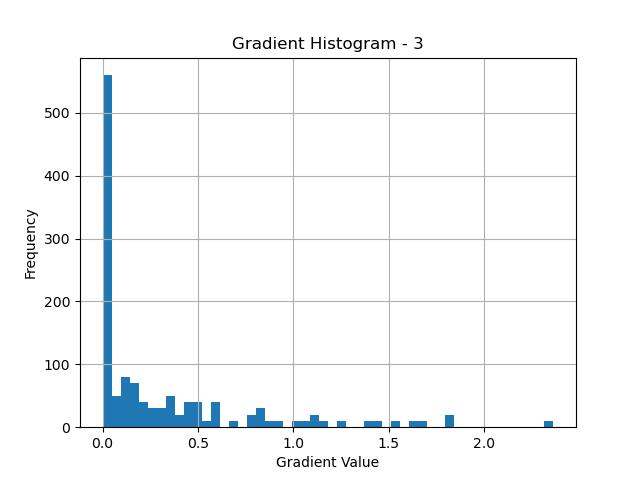
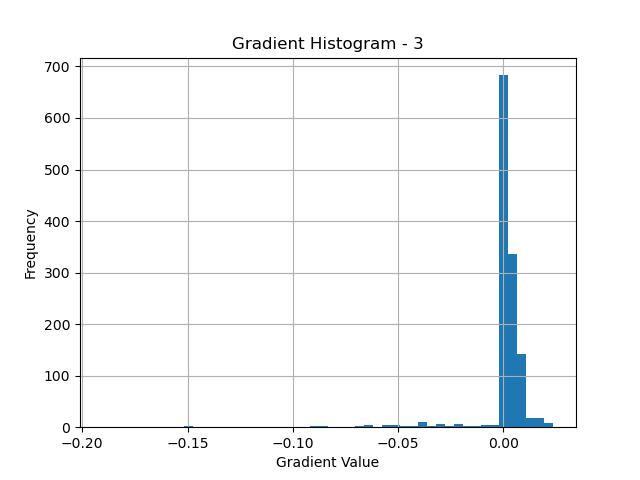
mean grads for entire epoch

diff --git a/testing.py b/testing.py
@@ -8,30 +8,31 @@ from torchvision.models import resnet50, vit_b_16
 from tqdm import tqdm
 
 # Define the CNN architecture
-# class SimpleCNN(nn.Module):
-#     def __init__(self, num_classes=10):
-#         super(SimpleCNN, self).__init__()
+class SimpleCNN(nn.Module):
+    def __init__(self, num_classes=10):
+        super(SimpleCNN, self).__init__()
         
-#         self.conv1 = nn.Conv2d(in_channels=1, out_channels=32, kernel_size=3, stride=1, padding=1)
-#         self.conv2 = nn.Conv2d(in_channels=32, out_channels=64, kernel_size=3, stride=1, padding=1)
+        self.conv1 = nn.Conv2d(in_channels=3, out_channels=32, kernel_size=3, stride=1, padding=1)
+        self.conv2 = nn.Conv2d(in_channels=32, out_channels=64, kernel_size=3, stride=1, padding=1)
         
-#         self.fc1 = nn.Linear(64 * 7 * 7, 128)
-#         self.fc2 = nn.Linear(128, num_classes)
+        self.fc1 = nn.Linear(4096, 128)
+        self.fc2 = nn.Linear(128, num_classes)
         
-#         self.pool = nn.MaxPool2d(kernel_size=2, stride=2)
+        self.pool = nn.MaxPool2d(kernel_size=2, stride=2)
         
-#     def forward(self, x):
-#         x = self.pool(F.relu(self.conv1(x)))
-#         x = self.pool(F.relu(self.conv2(x)))
+    def forward(self, x):
+        x = self.pool(F.relu(self.conv1(x)))
+        x = self.pool(F.relu(self.conv2(x)))
         
-#         x = x.view(x.size(0), -1)
+        x = x.view(x.size(0), -1)
+        # print('flat shape: ', x.shape)
         
-#         x = F.relu(self.fc1(x))
-#         x = self.fc2(x)
-#         return x
+        x = F.relu(self.fc1(x))
+        x = self.fc2(x)
+        return x
 
-# model = SimpleCNN(num_classes=10)
-model = resnet50()
+model = SimpleCNN(num_classes=10)
+# model = resnet50()
 # model = vit_b_16()
 
 from BBDecoder import Master_analyzer
@@ -51,25 +52,25 @@ transform = transforms.Compose([
     transforms.Normalize((0.5, 0.5, 0.5), (0.5, 0.5, 0.5))
 ])
 
-trainset = torchvision.datasets.CIFAR10(
-    root='O:\DATASETS',
-    train=True,
-    download=True,
-    transform=transform
-)
-trainloader = torch.utils.data.DataLoader(trainset, batch_size=32, shuffle=True)
+# trainset = torchvision.datasets.CIFAR10(
+#     root='/home/sharjeel/Desktop/repositories/DATASETS',
+#     train=True,
+#     download=True,
+#     transform=transform
+# )
+# trainloader = torch.utils.data.DataLoader(trainset, batch_size=32, shuffle=True)
 
 testset = torchvision.datasets.CIFAR10(
-    root='O:\DATASETS',
+    root='/home/sharjeel/Desktop/repositories/DATASETS',
     train=False,
     download=True,
     transform=transform
 )
 
-subset_indices = list(range(96))  # Indices of the first 10 samples
+subset_indices = list(range(6))  # 96, Indices of the first 10 samples
 subset = torch.utils.data.Subset(testset, subset_indices)
 
-testloader = torch.utils.data.DataLoader(subset, batch_size=32, shuffle=False)
+testloader = torch.utils.data.DataLoader(subset, batch_size=2, shuffle=False)
 
 classes = ('plane', 'car', 'bird', 'cat', 'deer', 'dog', 'frog', 'horse', 'ship', 'truck')
 
@@ -81,28 +82,29 @@ wrapped_model.initialize_analyser(layer_inds = [0, 1, 2, 3, 4],
                                 function_flag = False)
 
 ## Testing using a dummy dataset
-Epochs = 5
+Epochs = 2
 for epoch in range(Epochs):
     
     losses = []
     for data in tqdm(testloader):
         inputs, labels = data
+        print('before forward')
         wrapped_model.optimizer.zero_grad()
         outputs = wrapped_model.forward_propagation(inputs)
         loss = F.cross_entropy(outputs, labels)
-        wrapped_model.backward_propagation(loss)
+        wrapped_model.backward_propagation(loss, collect_grads = True, layers = [0, 1, 2, 3, 4])
         
         losses.append(loss.item())
     
     print('Epoch: ', epoch)
     print('Average Loss: ', sum(losses)/len(losses))
-
+    wrapped_model.save_collected_grads()
 
 # wrapped_model.visualize_weight_hist('O:\\PCodes\\black_box\\save_folder\\Weights')
 # wrapped_model.threshold_pruning(0.01)
 # wrapped_model.visualize_weight_hist('O:\\PCodes\\black_box\\save_folder\\Weights_2')
 
-wrapped_model.save_tracked_data()
+wrapped_model.save_tracked_data(save_folder = '/home/sharjeel/Desktop/repositories/Black_box/save_folder', ep = epoch)
 
 # for name, module in wrapped_model.model.named_children():
 #     if module.Trainable:

diff --git a/BBDecoder/__init__.py b/BBDecoder/__init__.py
@@ -6,6 +6,9 @@ import torch
 import torch.nn as nn
 import pandas as pd
 import os
+import numpy as np
+import matplotlib.pyplot as plt
+from matplotlib.lines import Line2D
 
 class Master_analyzer(GradAnalyzer, LayerAnalyzer):
     def __init__(self,
@@ -29,6 +32,9 @@ class Master_analyzer(GradAnalyzer, LayerAnalyzer):
         self.track_grads = None
         self.function_flag = None
 
+        self.ave_grads = []
+        self.max_grads = []
+
         self.layer_names = []
 
         self.wrap_layers()
@@ -45,7 +51,7 @@ class Master_analyzer(GradAnalyzer, LayerAnalyzer):
         '''
 
         self.layer_inds = layer_inds
-        self.grad_flag = grad_flag
+        # self.grad_flag = grad_flag
         self.grad_hist_flag = grad_hist_flag
         self.track_grads = track_grads
         self.function_flag = function_flag
@@ -64,16 +70,60 @@ class Master_analyzer(GradAnalyzer, LayerAnalyzer):
     def forward_propagation(self, x):
         return self.model(x)
     
-    def backward_propagation(self, loss):
+    def backward_propagation(self, loss, collect_grads = False, layers = None):
         self.optimizer.zero_grad()
         loss.backward()
 
         # print('//////// ', self.layer_inds, self.grad_flag)
-        if self.layer_inds is not None:
-            if self.grad_flag:
-                self.check_grads()
+        if layers is not None:
+            if collect_grads:
+                self.collect_grads()
 
-        self.optimizer.step()
+        # self.optimizer.step()
+
+    def collect_grads(self):
+        print('--- tick tick ---')
+        iter_ave, iter_max, rec_layers = self.check_grads()
+        self.rec_layers = rec_layers
+        if len(self.ave_grads) == 0:
+            print('--- direct equal')
+            self.ave_grads = iter_ave
+            self.max_grads = iter_max
+        else:
+            print('before add shape:', self.ave_grads.shape, iter_ave.shape)
+            self.ave_grads = np.vstack((self.ave_grads, iter_ave))
+            self.max_grads = np.vstack((self.max_grads, iter_max))
+        
+        print('--- shapes: ', np.array(self.ave_grads).shape, np.array(self.max_grads).shape)
+
+
+    def save_collected_grads(self, save_folder, ep):
+        print('Saving the collected gradients')
+        print('grad shapes: ', np.array(self.ave_grads).shape, np.array(self.max_grads).shape)
+        max_grads = np.max(self.max_grads, axis = 0)
+        ave_grads = np.mean(self.ave_grads, axis = 0)
+
+        plt.bar(np.arange(len(max_grads)), max_grads, alpha=0.1, lw=1, color="c")
+        plt.bar(np.arange(len(max_grads)), ave_grads, alpha=0.1, lw=1, color="b")
+        plt.hlines(0, 0, len(ave_grads)+1, lw=2, color="k" )
+        plt.xticks(range(0,len(ave_grads), 1), self.rec_layers, rotation="vertical")
+        plt.xlim(left=0, right=len(ave_grads))
+        plt.ylim(bottom = -0.001, top=0.02) # zoom in on the lower gradient regions
+        plt.xlabel("Layers")
+        plt.ylabel("average gradient")
+        plt.title("Gradient flow")
+        plt.grid(True)
+        plt.legend([Line2D([0], [0], color="c", lw=4),
+                    Line2D([0], [0], color="b", lw=4),
+                    Line2D([0], [0], color="k", lw=4)], ['max-gradient', 'mean-gradient', 'zero-gradient'])
+        plt.tight_layout()
+
+        save_path = os.path.join(save_folder, f'Epoch_{ep}_Grad_graph.jpg')
+        plt.savefig(save_path)
+
+        self.ave_grads = []
+        self.max_grads = []
+        self.rec_layers = 0
 
     def save_tracked_data(self):
         data = []

diff --git a/BBDecoder/analysis/grad_stats.py b/BBDecoder/analysis/grad_stats.py
@@ -28,7 +28,7 @@ class GradAnalyzer():
         max_grads= []
         layers = []
         for name, module in self.model.named_children():
-            
+
             if module.index in self.layer_inds:
                 for n, p in module.named_parameters():
                     if(p.requires_grad) and ("bias" not in n):
@@ -43,24 +43,25 @@ class GradAnalyzer():
                             ave_grads.append(0)
                             max_grads.append(0)
 
-        plt.bar(np.arange(len(max_grads)), max_grads, alpha=0.1, lw=1, color="c")
-        plt.bar(np.arange(len(max_grads)), ave_grads, alpha=0.1, lw=1, color="b")
-        plt.hlines(0, 0, len(ave_grads)+1, lw=2, color="k" )
-        plt.xticks(range(0,len(ave_grads), 1), layers, rotation="vertical")
-        plt.xlim(left=0, right=len(ave_grads))
-        plt.ylim(bottom = -0.001, top=0.02) # zoom in on the lower gradient regions
-        plt.xlabel("Layers")
-        plt.ylabel("average gradient")
-        plt.title("Gradient flow")
-        plt.grid(True)
-        plt.legend([Line2D([0], [0], color="c", lw=4),
-                    Line2D([0], [0], color="b", lw=4),
-                    Line2D([0], [0], color="k", lw=4)], ['max-gradient', 'mean-gradient', 'zero-gradient'])
-        plt.tight_layout()
+        return np.array(ave_grads), np.array(max_grads), np.array(layers)
+    
+        # plt.bar(np.arange(len(max_grads)), max_grads, alpha=0.1, lw=1, color="c")
+        # plt.bar(np.arange(len(max_grads)), ave_grads, alpha=0.1, lw=1, color="b")
+        # plt.hlines(0, 0, len(ave_grads)+1, lw=2, color="k" )
+        # plt.xticks(range(0,len(ave_grads), 1), layers, rotation="vertical")
+        # plt.xlim(left=0, right=len(ave_grads))
+        # plt.ylim(bottom = -0.001, top=0.02) # zoom in on the lower gradient regions
+        # plt.xlabel("Layers")
+        # plt.ylabel("average gradient")
+        # plt.title("Gradient flow")
+        # plt.grid(True)
+        # plt.legend([Line2D([0], [0], color="c", lw=4),
+        #             Line2D([0], [0], color="b", lw=4),
+        #             Line2D([0], [0], color="k", lw=4)], ['max-gradient', 'mean-gradient', 'zero-gradient'])
+        # plt.tight_layout()
 
-        save_path = os.path.join(self.save_folder, 'Grad_graph.jpg')
-        plt.savefig(save_path)
-
+        # save_path = os.path.join(self.save_folder, 'Grad_graph.jpg')
+        # plt.savefig(save_path)
 
 
 
